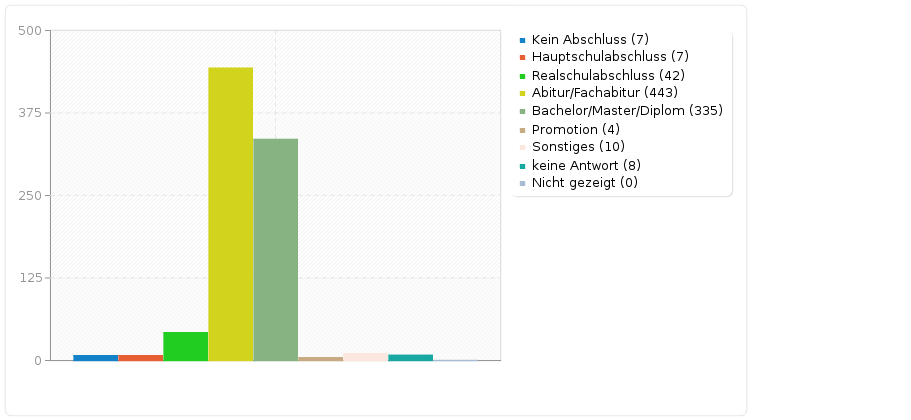
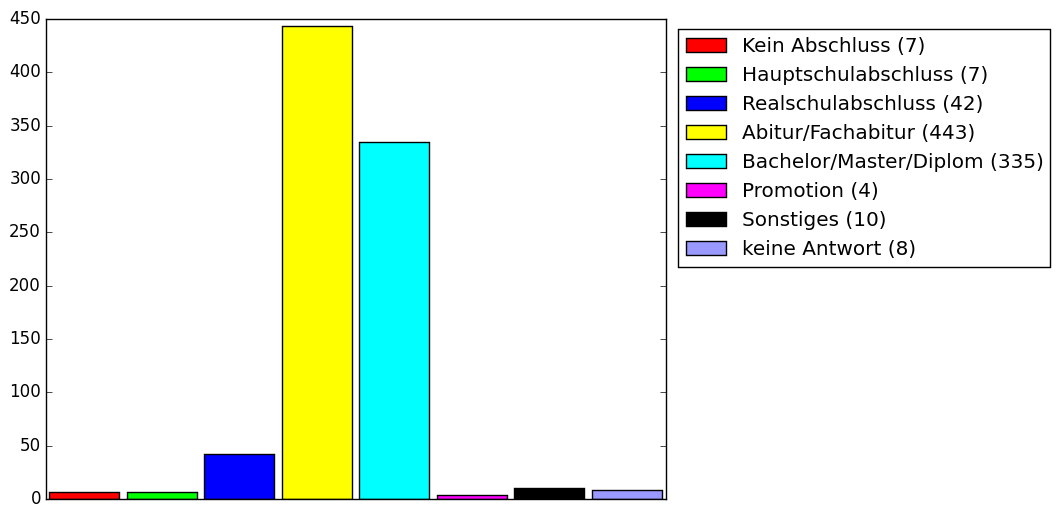
added script to create plots

Changed region(s): [[0.0, 0.0, 1.0, 0.9905]]

diff --git a/script/analyze.py b/script/analyze.py
@@ -1,9 +1,8 @@
 import csv
 import sys
 import logging
+import numpy
 from optparse import OptionParser
-
-f = open('results.csv', 'rt')
 
 # python2 backward compatibility
 try:
@@ -26,24 +25,27 @@ if opts.r2 is None:
   opts.r2 = input('Row 2: ')
 
 try:
-  reader = csv.reader(f)
-  start = True
-  input_rows = {}
-  
-  for row in reader:
-    if start:
-      start = False
-      for i,s in enumerate(row):
-        if s == opts.r1:
-          input_rows[i] = {'name': opts.r1, 'entries': []}
-        elif s == opts.r2:
-          input_rows[i] = {'name': opts.r2, 'entries': []}
-          
-    else:
-      for i,s in enumerate(row):
-        if i in input_rows:
-          input_rows[i]['entries'].append(s)
-    
-  print(input_rows)      
+  t = numpy.loadtxt(open('results.csv', 'rb'), delimiter=',', skiprows=1)
+  print(numpy.corrcoef(t[4], t[5]))
+  #f = open('results.csv', 'rt')
+  #reader = csv.reader(f)
+  #start = True
+  #input_rows = {}
+  #
+  #for row in reader:
+  #  if start:
+  #    start = False
+  #    for i,s in enumerate(row):
+  #      if s == opts.r1:
+  #        input_rows[i] = {'name': opts.r1, 'entries': []}
+  #      elif s == opts.r2:
+  #        input_rows[i] = {'name': opts.r2, 'entries': []}
+  #        
+  #  else:
+  #    for i,s in enumerate(row):
+  #      if i in input_rows:
+  #        input_rows[i]['entries'].append(s)
+  #  
+  #print(input_rows)      
 finally:
-  f.close()
+  pass

diff --git a/script/plot.py b/script/plot.py
@@ -1,0 +1,16 @@
+from pylab import *
+fig = plt.figure(1)
+ax = fig.add_subplot(111)
+ax.bar([0.5], [7], width=0.9, facecolor='#ff0000', label="Kein Abschluss (7)", align="center")
+ax.bar([1.5], [7], width=0.9, facecolor='#00ff00', label="Hauptschulabschluss (7)", align="center")
+ax.bar([2.5], [42], width=0.9, facecolor='#0000ff', label="Realschulabschluss (42)", align="center")
+ax.bar([3.5], [443], width=0.9, facecolor='#ffff00', label="Abitur/Fachabitur (443)", align="center")
+ax.bar([4.5], [335], width=0.9, facecolor='#00ffff', label="Bachelor/Master/Diplom (335)", align="center")
+ax.bar([5.5], [4], width=0.9, facecolor='#ff00ff', label="Promotion (4)", align="center")
+ax.bar([6.5], [10], width=0.9, facecolor='#000000', label="Sonstiges (10)", align="center")
+ax.bar([7.5], [8], width=0.9, facecolor='#9999ff', label="keine Antwort (8)", align="center")
+handles,labels = ax.get_legend_handles_labels()
+lgd = ax.legend(handles, labels, loc='upper center', bbox_to_anchor=(1.32, 1))
+ax.tick_params(axis='x', which='both', bottom='off', top='off', labelbottom='off')
+fig.savefig('test', bbox_extra_artists=(lgd,), bbox_inches='tight')
+#show(bbox_extra_artists=(lgd,))
